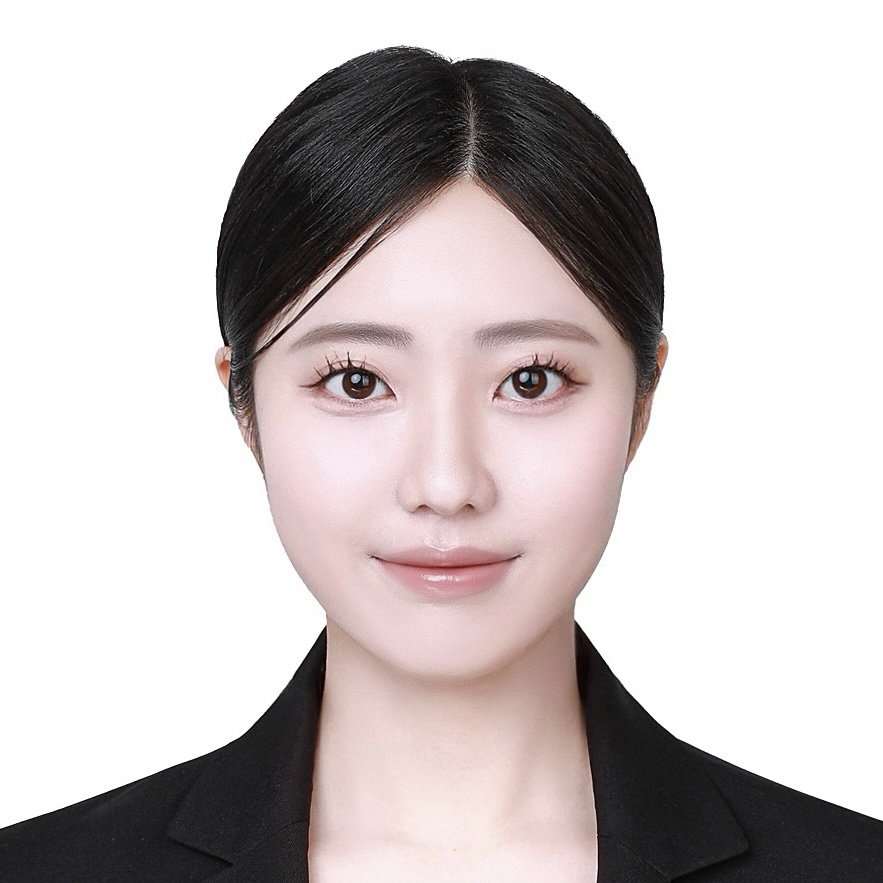
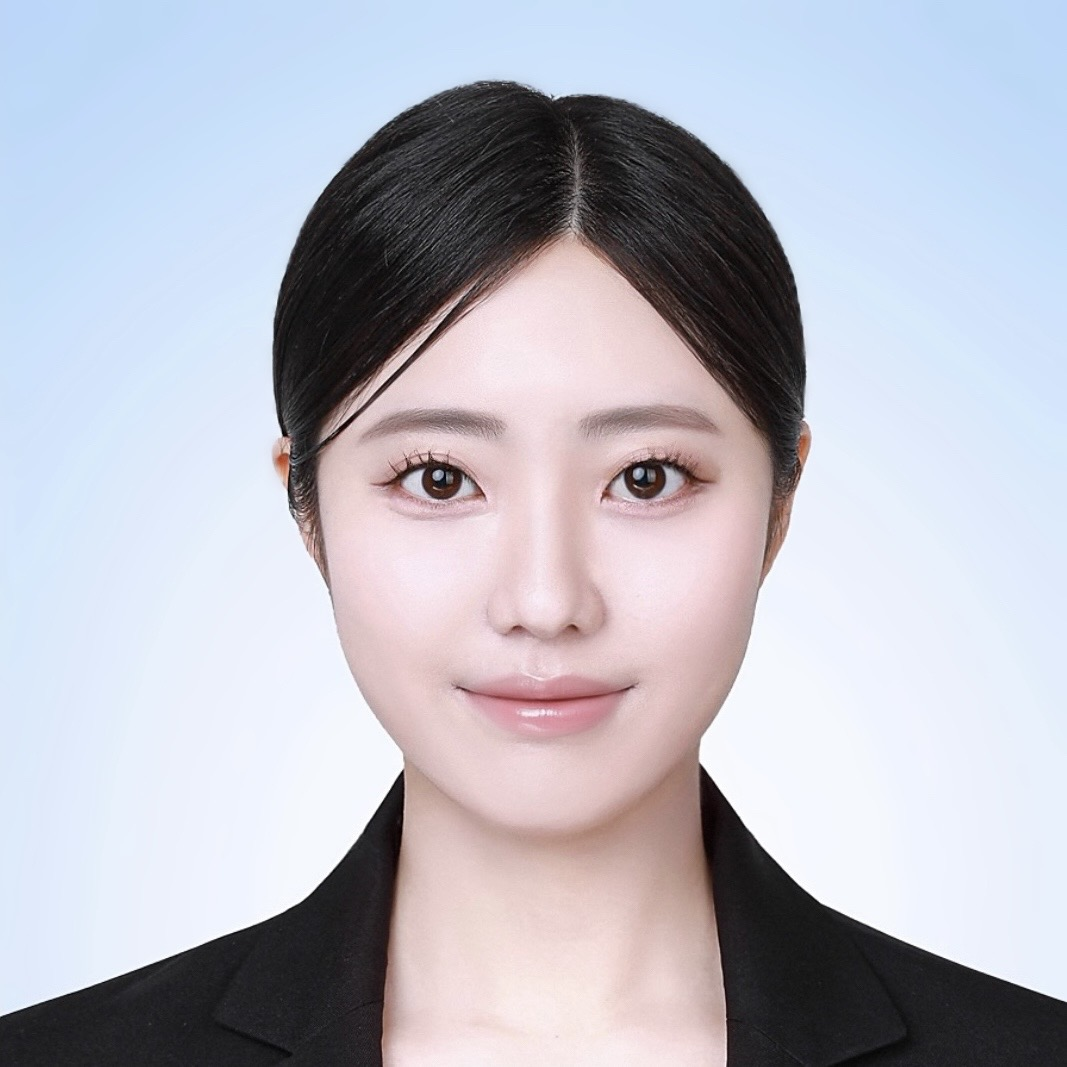
style(경력기술서): 도입부 정리 + 프로필 사진 교체
- 지원분야/프로젝트/문서구성 3줄 삭제, "경력기술서" 제목 확대
- "주요 판단" → "주요 성과", 항목 번호를 ①②③④로 변경
- 우측 라벨을 상태·수상만 표기 (LXP "실사용 서비스 · 진행 중" → "진행 중",
  노후애 설명 라벨 제거)
- 프로필 사진을 파란 배경 증명사진으로 교체

diff --git a/career.html b/career.html
@@ -77,19 +77,7 @@
       </section>
 
       <section id="intro">
-        <h2 class="text-xs font-semibold tracking-widest uppercase text-zinc-400 mb-6">경력기술서</h2>
-        <div class="flex gap-2 text-sm text-zinc-600 leading-relaxed mb-1.5">
-          <span class="text-zinc-300">·</span><span class="w-20 shrink-0 font-medium text-zinc-800">지원분야</span>
-          <span class="flex-1">AI 엔지니어 &mdash; LLM·RAG 파이프라인 설계, AI 서비스 백엔드</span>
-        </div>
-        <div class="flex gap-2 text-sm text-zinc-600 leading-relaxed mb-1.5">
-          <span class="text-zinc-300">·</span><span class="w-20 shrink-0 font-medium text-zinc-800">프로젝트</span>
-          <span class="flex-1">4건 &mdash; 실사용 서비스 1건(진행 중) · 공모전 수상 2건 · 대회 본선 1건</span>
-        </div>
-        <div class="flex gap-2 text-sm text-zinc-600 leading-relaxed">
-          <span class="text-zinc-300">·</span><span class="w-20 shrink-0 font-medium text-zinc-800">문서 구성</span>
-          <span class="flex-1">프로젝트별 담당업무·업무성과와 그 과정에서 내린 기술적 판단을 기술했습니다. 구현 기능·화면·기술 스택 목록은 <a href="index.html" class="text-zinc-800 underline underline-offset-2 hover:text-zinc-500 transition-colors">포트폴리오</a>에 있습니다.</span>
-        </div>
+        <h2 class="text-2xl font-bold tracking-tight">경력기술서</h2>
       </section>
 
       <!-- 01 -->
@@ -97,7 +85,7 @@
         <div class="border-b border-zinc-200 pb-4 mb-6">
           <div class="flex items-baseline justify-between mb-3">
             <h2 class="text-lg font-semibold tracking-tight"><span class="text-zinc-300 font-mono text-base mr-2.5">01</span>Samsung Academy LXP</h2>
-            <span class="text-sm text-zinc-400 shrink-0 ml-4">실사용 서비스 · 진행 중</span>
+            <span class="text-sm text-zinc-400 shrink-0 ml-4">진행 중</span>
           </div>
           <div class="flex gap-2 text-sm text-zinc-600 leading-relaxed mb-1.5">
             <span class="text-zinc-300">·</span><span class="w-20 shrink-0 font-medium text-zinc-800">진행기간</span>
@@ -116,10 +104,10 @@
             <span class="flex-1"><ul class="space-y-1"><li class="flex gap-1.5"><span class="text-zinc-300">-</span><span>호출 전 게이트와 결과 캐시 도입으로 <strong class="text-zinc-800">일일 API 한도 소진 문제 해결</strong>, 배포 일정 내 반영</span></li><li class="flex gap-1.5"><span class="text-zinc-300">-</span><span>채용공고 기반 직무 로드맵 <strong class="text-zinc-800">개발 직군 10종</strong> 지원</span></li><li class="flex gap-1.5"><span class="text-zinc-300">-</span><span>기능 요구사항 <strong class="text-zinc-800">211건</strong> 코드 대조 감사, 오탐 3건 정정 &rarr; 구현 완료 판정 <strong class="text-zinc-800">21건 &rarr; 23건</strong> 보정</span></li><li class="flex gap-1.5"><span class="text-zinc-300">-</span><span>훈련생 실사용 서버(<code class="bg-zinc-100 px-1 rounded text-xs">lms.samsungax.com</code>) 배포·운영</span></li></ul></span>
           </div>
         </div>
-        <p class="text-xs font-semibold tracking-widest uppercase text-zinc-400 mb-4">주요 판단</p>
+        <p class="text-xs font-semibold tracking-widest uppercase text-zinc-400 mb-4">주요 성과</p>
         <div class="space-y-6">
           <div class="decision">
-            <h3 class="text-sm font-semibold text-zinc-900 mb-2.5">판단 1 &nbsp;—&nbsp; LLM 호출 비용 통제 : 호출 전 차단 게이트 설계</h3>
+            <h3 class="text-sm font-semibold text-zinc-900 mb-2.5">① &nbsp;LLM 호출 비용 통제 : 호출 전 차단 게이트 설계</h3>
             <dl class="space-y-2 text-sm text-zinc-600 leading-relaxed">
               <div class="flex gap-4"><dt class="w-10 shrink-0 text-zinc-400">상황</dt><dd>배포 전 테스트에서 일일 API 한도가 빠르게 소진. 요청 흐름을 단계별로 좁혀 검증한 결과 <strong class="text-zinc-800">같은 질문의 재조회</strong>와 <strong class="text-zinc-800">답변이 불가능한 요청</strong>(등록 자료 없음)이 호출량의 상당 부분을 차지.</dd></div>
               <div class="flex gap-4"><dt class="w-10 shrink-0 font-medium text-zinc-800">판단</dt><dd>한도 상향이나 저가 모델 교체는 비용·품질을 대가로 하는 임시 조치이며 소진 속도는 그대로. 불필요 호출 자체를 제거하기로 결정 &rarr; 수강 권한 · 입력 1,000자 · 자료 유무 · 일일 한도(500/50)를 <strong class="text-zinc-800">모델 호출 전에</strong> 검사하는 게이트를 앞단 배치, 재조회는 결과 캐시로 응답.</dd></div>
@@ -127,7 +115,7 @@
             </dl>
           </div>
           <div class="decision">
-            <h3 class="text-sm font-semibold text-zinc-900 mb-2.5">판단 2 &nbsp;—&nbsp; RAG 인용 검증 : 범위 밖 인용 폐기 및 출처 분리 표기</h3>
+            <h3 class="text-sm font-semibold text-zinc-900 mb-2.5">② &nbsp;RAG 인용 검증 : 범위 밖 인용 폐기 및 출처 분리 표기</h3>
             <dl class="space-y-2 text-sm text-zinc-600 leading-relaxed">
               <div class="flex gap-4"><dt class="w-10 shrink-0 text-zinc-400">상황</dt><dd>답변에 붙는 인용 번호 중 실제 전달한 자료 범위를 벗어난 것이 섞여, 근거 없는 자료로 링크가 연결될 수 있는 상태.</dd></div>
               <div class="flex gap-4"><dt class="w-10 shrink-0 font-medium text-zinc-800">판단</dt><dd>학습 서비스에서 근거 링크는 답변만큼 중요하나, 잘못된 근거는 답변 전체의 신뢰도를 떨어뜨림. 인용 기능을 제거하는 대신 <strong class="text-zinc-800">검증을 통과한 인용만 노출</strong>하기로 결정. 자료에 없는 내용은 삭제하지 않고 <strong class="text-zinc-800">"일반 지식"으로 분리 표기</strong>해 출처 유무를 구분.</dd></div>
@@ -135,7 +123,7 @@
             </dl>
           </div>
           <div class="decision">
-            <h3 class="text-sm font-semibold text-zinc-900 mb-2.5">판단 3 &nbsp;—&nbsp; 지표 산출 기준 통일 : 산출 불가 구간 미표시 처리</h3>
+            <h3 class="text-sm font-semibold text-zinc-900 mb-2.5">③ &nbsp;지표 산출 기준 통일 : 산출 불가 구간 미표시 처리</h3>
             <dl class="space-y-2 text-sm text-zinc-600 leading-relaxed">
               <div class="flex gap-4"><dt class="w-10 shrink-0 text-zinc-400">상황</dt><dd>진도율·기간 경과율·이수 요건 충족을 관리자와 강사가 서로 다른 기준으로 조회. 데이터가 없는 구간의 표시 방식도 미정.</dd></div>
               <div class="flex gap-4"><dt class="w-10 shrink-0 font-medium text-zinc-800">판단</dt><dd>해당 지표는 훈련생 이수 판정과 연결됨. 0%와 "산출 불가"는 의미가 다르나 화면에서 구분되지 않아 <strong class="text-zinc-800">잘못된 수치가 이수 판정에 반영될 위험</strong>이 있다고 보고, 0으로 채우지 않고 미표시 처리.</dd></div>
@@ -143,7 +131,7 @@
             </dl>
           </div>
           <div class="decision">
-            <h3 class="text-sm font-semibold text-zinc-900 mb-2.5">판단 4 &nbsp;—&nbsp; 기능 구현 검증 : 4단계 판정 기준 수립 및 근거 재검증</h3>
+            <h3 class="text-sm font-semibold text-zinc-900 mb-2.5">④ &nbsp;기능 구현 검증 : 4단계 판정 기준 수립 및 근거 재검증</h3>
             <dl class="space-y-2 text-sm text-zinc-600 leading-relaxed">
               <div class="flex gap-4"><dt class="w-10 shrink-0 text-zinc-400">상황</dt><dd>취업캠퍼스 · 몰입클라쓰 · 비즈워크래프트 · LXP <strong class="text-zinc-800">4개 서비스</strong>의 기능 명세가 실제 구현과 일치하는지 확인된 적 없음.</dd></div>
               <div class="flex gap-4"><dt class="w-10 shrink-0 font-medium text-zinc-800">판단</dt><dd>2단계(구현/미구현) 판정은 근거가 불충분한 항목을 임의 배정하게 되어 감사 신뢰도를 떨어뜨림. <strong class="text-zinc-800">확인필요</strong>를 포함한 4단계로 분리. 1차 판정 후에는 판정 자체가 아니라 <strong class="text-zinc-800">판정 근거</strong>를 재검증 대상으로 삼음.</dd></div>
@@ -177,10 +165,10 @@
             <span class="flex-1"><ul class="space-y-1"><li class="flex gap-1.5"><span class="text-zinc-300">-</span><span>고령층 STT <strong class="text-zinc-800">WER 21.2%</strong> (목표 25% 이하 · 학습 미사용 홀드아웃셋 기준)</span></li><li class="flex gap-1.5"><span class="text-zinc-300">-</span><span>진료·복약 정보 <strong class="text-zinc-800">외부 전송 0건</strong> &mdash; STT부터 요약까지 전 구간 로컬 처리</span></li><li class="flex gap-1.5"><span class="text-zinc-300">-</span><span>데이터분석기반 AI 프로젝트 공모전 <strong class="text-zinc-800">우수상</strong></span></li></ul></span>
           </div>
         </div>
-        <p class="text-xs font-semibold tracking-widest uppercase text-zinc-400 mb-4">주요 판단</p>
+        <p class="text-xs font-semibold tracking-widest uppercase text-zinc-400 mb-4">주요 성과</p>
         <div class="space-y-6">
           <div class="decision">
-            <h3 class="text-sm font-semibold text-zinc-900 mb-2.5">판단 1 &nbsp;—&nbsp; 전 구간 로컬 추론 채택 : 진료 정보 외부 전송 차단</h3>
+            <h3 class="text-sm font-semibold text-zinc-900 mb-2.5">① &nbsp;전 구간 로컬 추론 채택 : 진료 정보 외부 전송 차단</h3>
             <dl class="space-y-2 text-sm text-zinc-600 leading-relaxed">
               <div class="flex gap-4"><dt class="w-10 shrink-0 text-zinc-400">상황</dt><dd>요약·쉬운말 변환에 정확도와 속도가 앞서는 클라우드 LLM API를 사용하려 했으나, 서비스가 다루는 대화가 <strong class="text-zinc-800">진료 내용과 복약 지시</strong>임을 확인.</dd></div>
               <div class="flex gap-4"><dt class="w-10 shrink-0 font-medium text-zinc-800">판단</dt><dd>민감 구간만 로컬로 처리하는 방식은 매번 경계를 판정해야 하는데, 실제 대화는 진료 내용과 일상 대화가 섞여 나타나 판정이 한 번만 틀려도 외부로 전송됨. 구간을 나누지 않고 <strong class="text-zinc-800">전 구간 로컬 처리</strong>로 결정. 양보한 응답 속도는 통화 종료 후 처리되는 요약 단계라 핵심 사용 경험에 해당하지 않는다고 판단.</dd></div>
@@ -188,7 +176,7 @@
             </dl>
           </div>
           <div class="decision">
-            <h3 class="text-sm font-semibold text-zinc-900 mb-2.5">판단 2 &nbsp;—&nbsp; 파이프라인 모듈 분리 : 단계별 오류 측정 구조 확보</h3>
+            <h3 class="text-sm font-semibold text-zinc-900 mb-2.5">② &nbsp;파이프라인 모듈 분리 : 단계별 오류 측정 구조 확보</h3>
             <dl class="space-y-2 text-sm text-zinc-600 leading-relaxed">
               <div class="flex gap-4"><dt class="w-10 shrink-0 text-zinc-400">상황</dt><dd>STT와 쉬운말 변환을 한 모듈에서 처리해, 결과가 틀렸을 때 <strong class="text-zinc-800">음성 인식 오류인지 변환 오류인지 구분 불가</strong>.</dd></div>
               <div class="flex gap-4"><dt class="w-10 shrink-0 font-medium text-zinc-800">판단</dt><dd>모델 성능을 올리기에 앞서 단계별 오류를 측정할 수 있는 구조가 먼저 필요하다고 판단, 의료 발화 가중치 학습과 쉬운말 변환을 별도 모듈로 분리.</dd></div>
@@ -222,10 +210,10 @@
             <span class="flex-1"><ul class="space-y-1"><li class="flex gap-1.5"><span class="text-zinc-300">-</span><span>가격대 · 현지인 · 위치 · 업종 <strong class="text-zinc-800">4개 복합 조건</strong> 자연어 한 줄 동시 검색 구현</span></li><li class="flex gap-1.5"><span class="text-zinc-300">-</span><span>신한카드 빅데이터 콘테스트 2024 <strong class="text-zinc-800">본선 진출</strong></span></li></ul></span>
           </div>
         </div>
-        <p class="text-xs font-semibold tracking-widest uppercase text-zinc-400 mb-4">주요 판단</p>
+        <p class="text-xs font-semibold tracking-widest uppercase text-zinc-400 mb-4">주요 성과</p>
         <div class="space-y-6">
           <div class="decision">
-            <h3 class="text-sm font-semibold text-zinc-900 mb-2.5">판단 1 &nbsp;—&nbsp; 벡터 + 그래프 하이브리드 검색 설계 : 관계 조건 처리</h3>
+            <h3 class="text-sm font-semibold text-zinc-900 mb-2.5">① &nbsp;벡터 + 그래프 하이브리드 검색 설계 : 관계 조건 처리</h3>
             <dl class="space-y-2 text-sm text-zinc-600 leading-relaxed">
               <div class="flex gap-4"><dt class="w-10 shrink-0 text-zinc-400">상황</dt><dd>FAISS 의미 검색은 "저렴한 흑돼지집"은 찾으나 "성산일출봉 근처 현지인이 가는 흑돼지집"은 처리 불가. 질문이 <strong class="text-zinc-800">장소·업종·인접성의 관계</strong>를 포함하는데 벡터 유사도로는 관계 탐색이 안 됨.</dd></div>
               <div class="flex gap-4"><dt class="w-10 shrink-0 font-medium text-zinc-800">판단</dt><dd>프롬프트 개선이나 메타데이터 필터는 조건이 늘 때마다 규칙을 덧붙여야 하고 관계 자체를 표현하지 못함. 데이터가 이미 관계 구조를 가지므로 검색도 관계 기반으로 수행하기로 결정.</dd></div>
@@ -240,7 +228,6 @@
         <div class="border-b border-zinc-200 pb-4 mb-6">
           <div class="flex items-baseline justify-between mb-3">
             <h2 class="text-lg font-semibold tracking-tight"><span class="text-zinc-300 font-mono text-base mr-2.5">04</span>노후애</h2>
-            <span class="text-sm text-zinc-400 shrink-0 ml-4">시니어 금융 추천 서비스</span>
           </div>
           <div class="flex gap-2 text-sm text-zinc-600 leading-relaxed mb-1.5">
             <span class="text-zinc-300">·</span><span class="w-20 shrink-0 font-medium text-zinc-800">진행기간</span>
@@ -259,10 +246,10 @@
             <span class="flex-1"><ul class="space-y-1"><li class="flex gap-1.5"><span class="text-zinc-300">-</span><span>추천 정확도 <strong class="text-zinc-800">+27%p</strong> · 취약 고객 탐지 민감도 <strong class="text-zinc-800">+23%p</strong> (키워드 매칭 baseline 대비 · 합성 데이터 평가)</span></li><li class="flex gap-1.5"><span class="text-zinc-300">-</span><span>위험군 분류 정확도 <strong class="text-zinc-800">65%</strong>, 스키마가 다른 예금·펀드를 공통 축으로 통합해 비교 검색 구현</span></li></ul></span>
           </div>
         </div>
-        <p class="text-xs font-semibold tracking-widest uppercase text-zinc-400 mb-4">주요 판단</p>
+        <p class="text-xs font-semibold tracking-widest uppercase text-zinc-400 mb-4">주요 성과</p>
         <div class="space-y-6">
           <div class="decision">
-            <h3 class="text-sm font-semibold text-zinc-900 mb-2.5">판단 1 &nbsp;—&nbsp; 가입 요건 필터와 추천 모델 분리 : 책임 범위 구분</h3>
+            <h3 class="text-sm font-semibold text-zinc-900 mb-2.5">① &nbsp;가입 요건 필터와 추천 모델 분리 : 책임 범위 구분</h3>
             <dl class="space-y-2 text-sm text-zinc-600 leading-relaxed">
               <div class="flex gap-4"><dt class="w-10 shrink-0 text-zinc-400">상황</dt><dd>금융 상품에는 최소투자금액·권장투자기간·투자성향처럼 충족하지 못하면 <strong class="text-zinc-800">가입 자체가 불가능한 조건</strong>이 존재. 학습 데이터에 포함해 모델이 걸러내게 할 수도 있었음.</dd></div>
               <div class="flex gap-4"><dt class="w-10 shrink-0 font-medium text-zinc-800">판단</dt><dd>모델은 확률로 답하므로 가입 불가 상품을 낮은 확률로 추천함. 반드시 지켜야 하는 규칙과 추천 품질은 성격이 다르므로 <strong class="text-zinc-800">규칙은 룰로 확정하고 모델은 품질만 담당</strong>하도록 책임 분리. 모델은 정확도가 아니라 판정 근거를 설명할 수 있는지 기준으로 TabNet을 선정.</dd></div>
